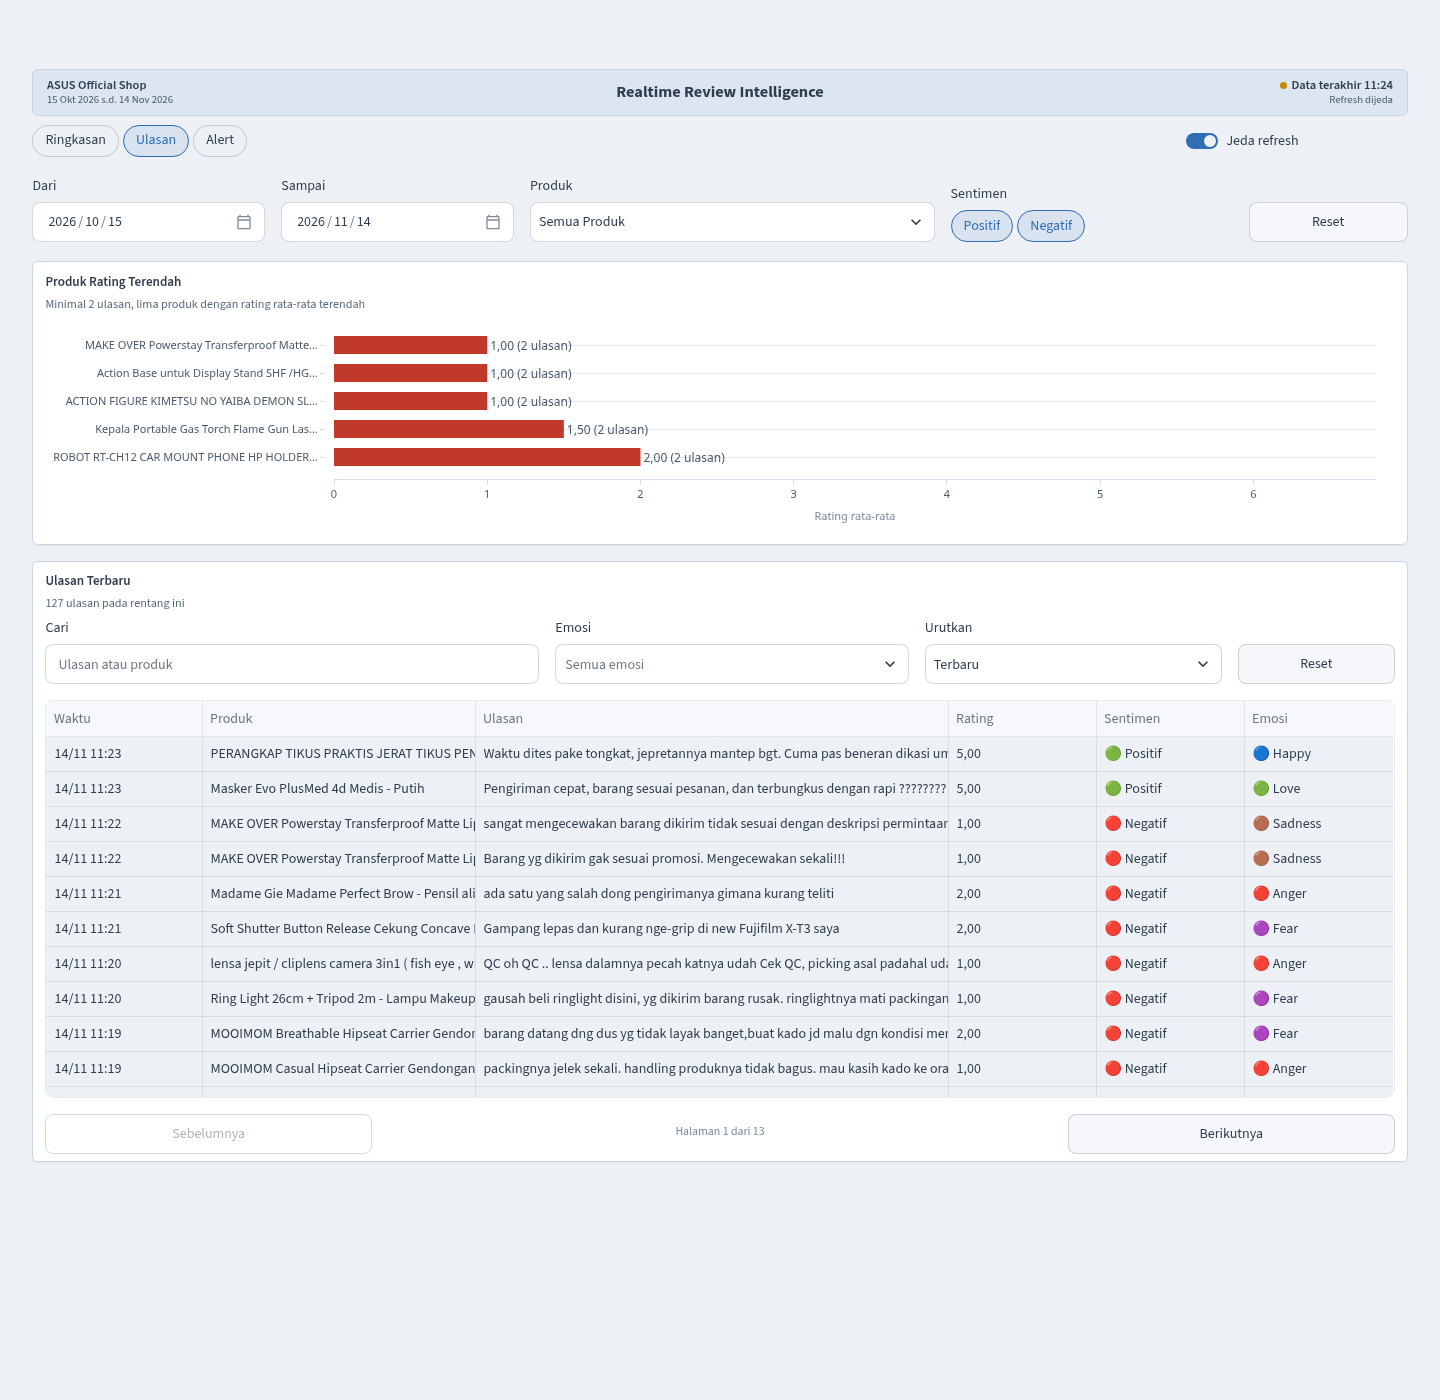
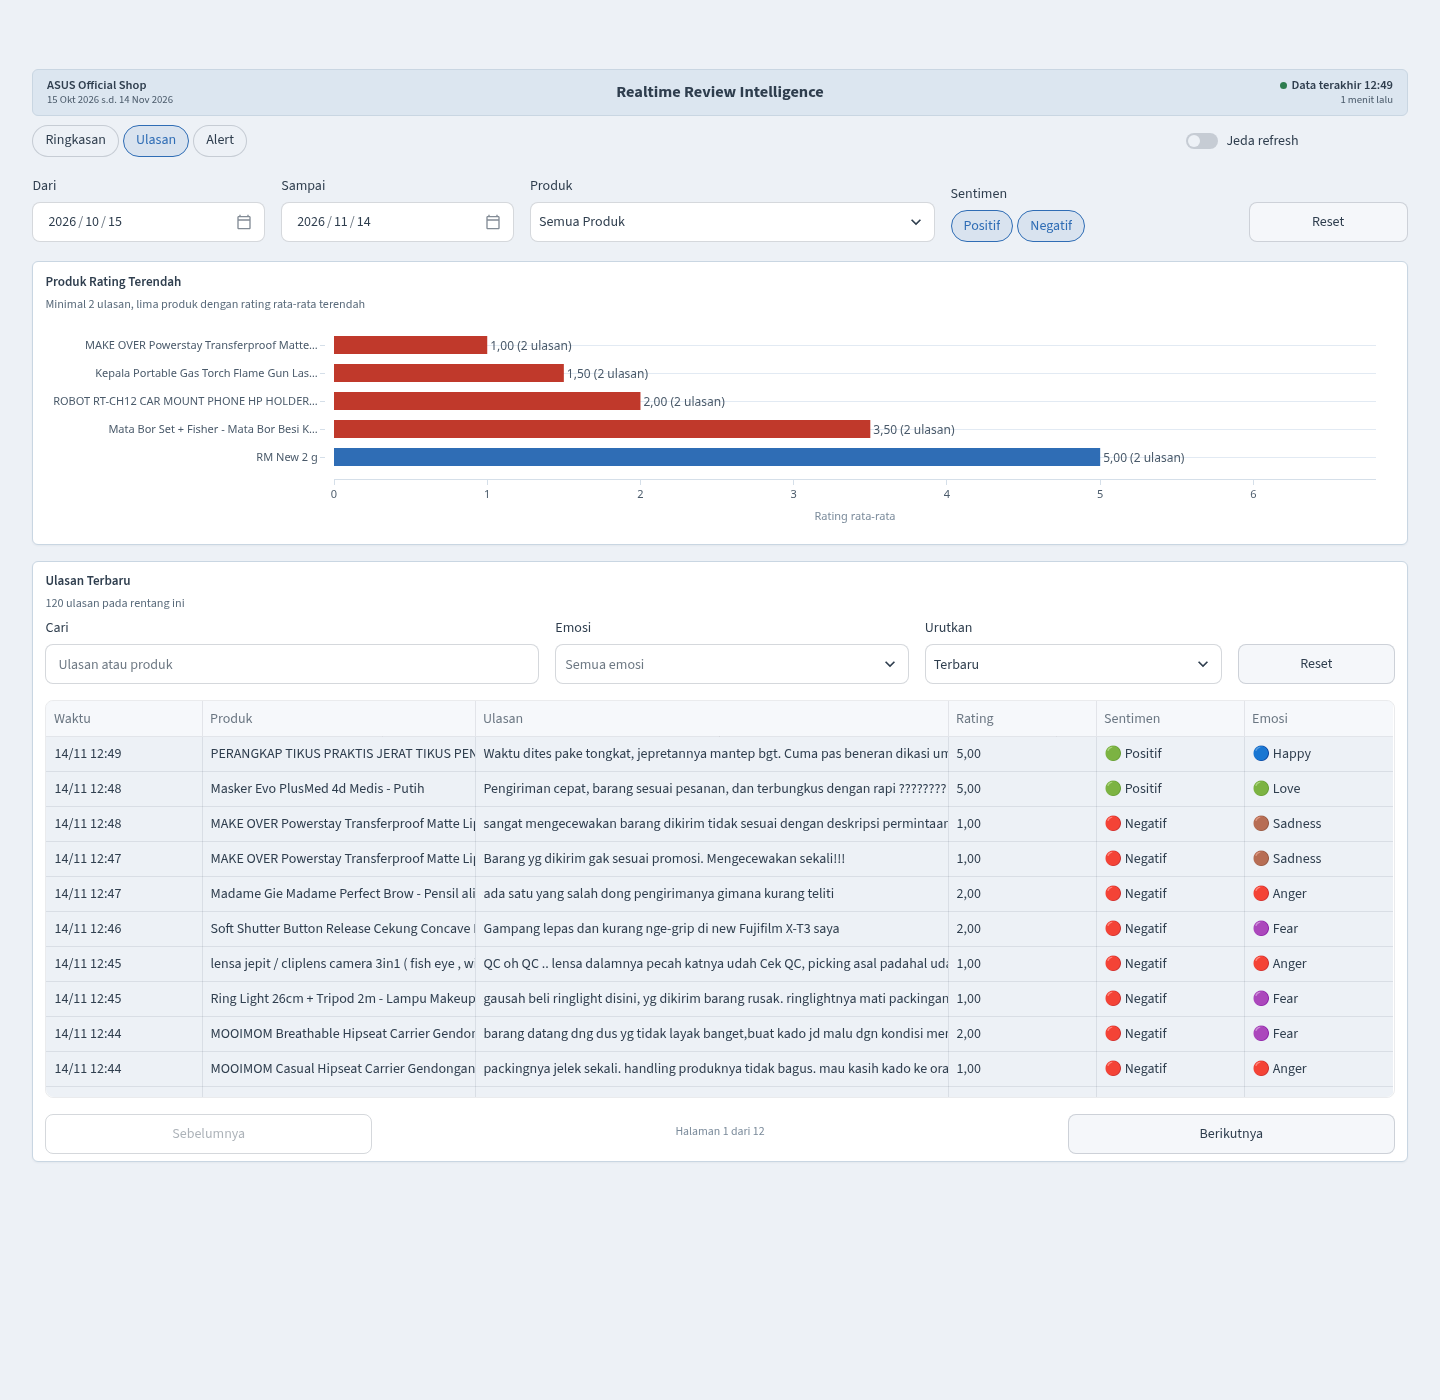
chore: drop unused table helpers and ignore caches
- remove dead html table renderers after dataframe migration
- ignore pytest and ruff caches in the repo
- refresh screenshots on a clean 120 review replay

Changed region(s): [[0.0625, 0.2457, 0.7812, 0.3379], [0.8125, 0.0921, 0.8438, 0.1229]]

diff --git a/streaming/services/dashboard/components.py b/streaming/services/dashboard/components.py
@@ -85,29 +85,6 @@ div[class*="st-key-card-"] {
   box-shadow: 0 1px 2px rgba(47, 62, 78, 0.05);
 }
 
-.table-wrap { overflow-x: auto; }
-.data-table { width: 100%; border-collapse: collapse; font-size: 0.76rem; }
-.data-table th { text-align: left; font-weight: 600; background: #F4F7FB;
-  border-bottom: 1px solid var(--line); padding: 0.42rem 0.5rem; font-size: 0.68rem;
-  text-transform: uppercase; letter-spacing: 0.03em; color: var(--ink-soft); white-space: nowrap; }
-.data-table td { border-bottom: 1px solid #E3EAF3; padding: 0.42rem 0.5rem;
-  color: var(--ink-soft); vertical-align: top; line-height: 1.4; }
-.data-table tr:last-child td { border-bottom: none; }
-.data-table td.num { text-align: right; white-space: nowrap; color: var(--ink); font-weight: 600; }
-.data-table td.nowrap { white-space: nowrap; }
-.data-table td.prod { max-width: 190px; }
-.data-table td.rev { color: var(--ink); }
-
-.badge { display: inline-block; border-radius: 999px; padding: 1px 8px;
-  font-size: 0.68rem; font-weight: 600; white-space: nowrap; }
-.badge.pos { background: #E3EEF9; color: #2F6DB5; }
-.badge.neg { background: #FBE7E5; color: #C0392B; }
-.badge.happy { background: #E3EEF9; color: #2F6DB5; }
-.badge.love { background: #E4F1E8; color: #2E7D4F; }
-.badge.fear { background: #EDE7F5; color: #7A5AA6; }
-.badge.sadness { background: #E3F0F4; color: #4C8FA8; }
-.badge.anger { background: #FBE7E5; color: #C0392B; }
-
 .page-info { text-align: center; font-size: 0.74rem; color: var(--muted); padding-top: 0.45rem; }
 
 .alert-stats { width: 100%; border-collapse: collapse; margin: 0.2rem 0 0.3rem; }
@@ -212,12 +189,6 @@ def persen(value: float, desimal: int = 1) -> str:
 
 def rating(value: float) -> str:
     return f"{value:.2f}".replace(".", ",")
-
-
-def waktu(value) -> str:
-    if value is None or pd.isna(value):
-        return "—"
-    return pd.Timestamp(value).strftime("%d/%m %H:%M")
 
 
 def gaya(fig: go.Figure, tinggi: int = 300, legenda: bool = False) -> go.Figure:
@@ -342,17 +313,6 @@ def chart_produk(df: pd.DataFrame) -> go.Figure:
     return gaya(fig, tinggi=max(220, 42 * len(data)))
 
 
-def _badge_sentiment(value: str) -> str:
-    kelas = "pos" if value == "Positive" else "neg"
-    label = "Positif" if value == "Positive" else "Negatif"
-    return f'<span class="badge {kelas}">{label}</span>'
-
-
-def _badge_emotion(value: str) -> str:
-    kelas = str(value).lower()
-    return f'<span class="badge {kelas}">{html.escape(str(value))}</span>'
-
-
 SENTIMENT_TAMPIL = {"Positive": "🟢 Positif", "Negative": "🔴 Negatif"}
 EMOTION_TAMPIL = {
     "Happy": "🔵 Happy",
@@ -423,69 +383,6 @@ def dataframe_alert(df: pd.DataFrame) -> None:
             "Rating": st.column_config.TextColumn("Rating", width="small"),
             "Rata-rata": st.column_config.TextColumn("Rata-rata", width="small"),
         },
-    )
-
-
-def tabel_ulasan(df: pd.DataFrame) -> None:
-    baris = []
-    for row in df.itertuples(index=False):
-        komentar = html.escape(_teks(row.comment, "")[:220])
-        produk = html.escape(_teks(row.product_name, "—")[:60])
-        baris.append(
-            "<tr>"
-            f"<td class='nowrap'>{waktu(row.create_time)}</td>"
-            f"<td class='prod'>{produk}</td>"
-            f"<td class='rev'>{komentar}</td>"
-            f"<td class='num'>{rating(float(row.rating_star))}</td>"
-            f"<td>{_badge_sentiment(row.sentiment)}</td>"
-            f"<td>{_badge_emotion(row.emotion)}</td>"
-            "</tr>"
-        )
-    st.markdown(
-        "<div class='table-wrap'><table class='data-table'>"
-        "<thead><tr><th>Waktu</th><th>Produk</th><th>Ulasan</th><th>Rating</th>"
-        "<th>Sentimen</th><th>Emosi</th></tr></thead>"
-        f"<tbody>{''.join(baris)}</tbody></table></div>",
-        unsafe_allow_html=True,
-    )
-
-
-def _teks(value, fallback: str = "—") -> str:
-    if value is None or (isinstance(value, float) and pd.isna(value)):
-        return fallback
-    text = str(value).strip()
-    if not text or text.lower() == "nan":
-        return fallback
-    return text
-
-
-def tabel_alert(df: pd.DataFrame) -> None:
-    baris = []
-    for row in df.itertuples(index=False):
-        tipe = ALERT_TYPE_LABELS.get(row.alert_type, row.alert_type)
-        komentar = html.escape(_teks(row.comment, "Tanpa ulasan terkait")[:220])
-        produk_default = "Semua produk" if row.alert_type == "rating_drop" else "—"
-        produk = html.escape(_teks(row.product_name, produk_default)[:50])
-        nilai = "—"
-        if row.review_rating is not None and not pd.isna(row.review_rating):
-            nilai = rating(float(row.review_rating))
-        elif row.rating_avg is not None and not pd.isna(row.rating_avg):
-            nilai = "avg " + rating(float(row.rating_avg))
-        baris.append(
-            "<tr>"
-            f"<td class='nowrap'>{waktu(row.triggered_at)}</td>"
-            f"<td class='nowrap'>{html.escape(str(tipe))}</td>"
-            f"<td class='prod'>{produk}</td>"
-            f"<td class='rev'>{komentar}</td>"
-            f"<td class='num'>{nilai}</td>"
-            "</tr>"
-        )
-    st.markdown(
-        "<div class='table-wrap'><table class='data-table'>"
-        "<thead><tr><th>Waktu</th><th>Tipe</th><th>Produk</th><th>Ulasan</th>"
-        "<th>Rating</th></tr></thead>"
-        f"<tbody>{''.join(baris)}</tbody></table></div>",
-        unsafe_allow_html=True,
     )
 
 
